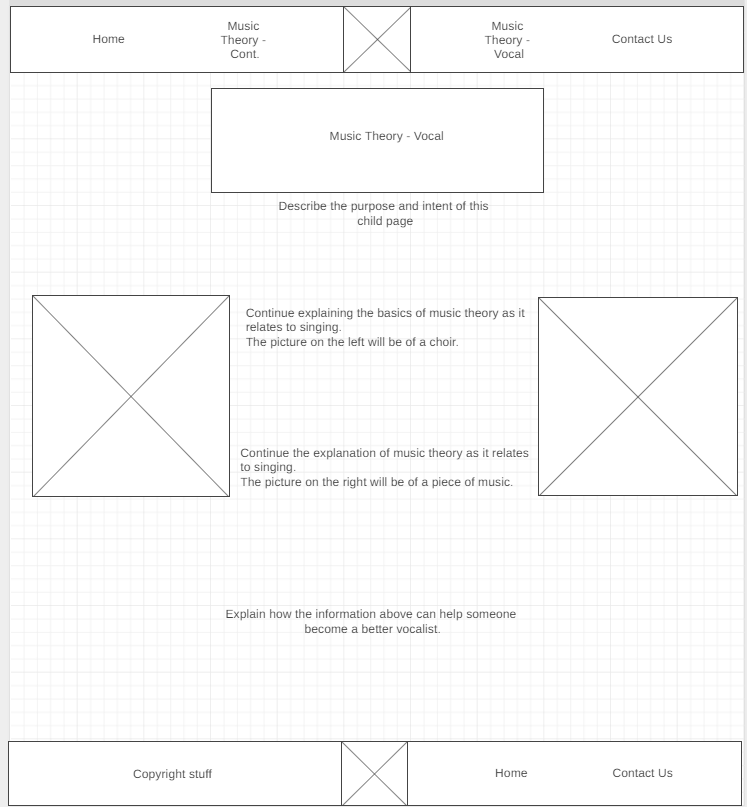
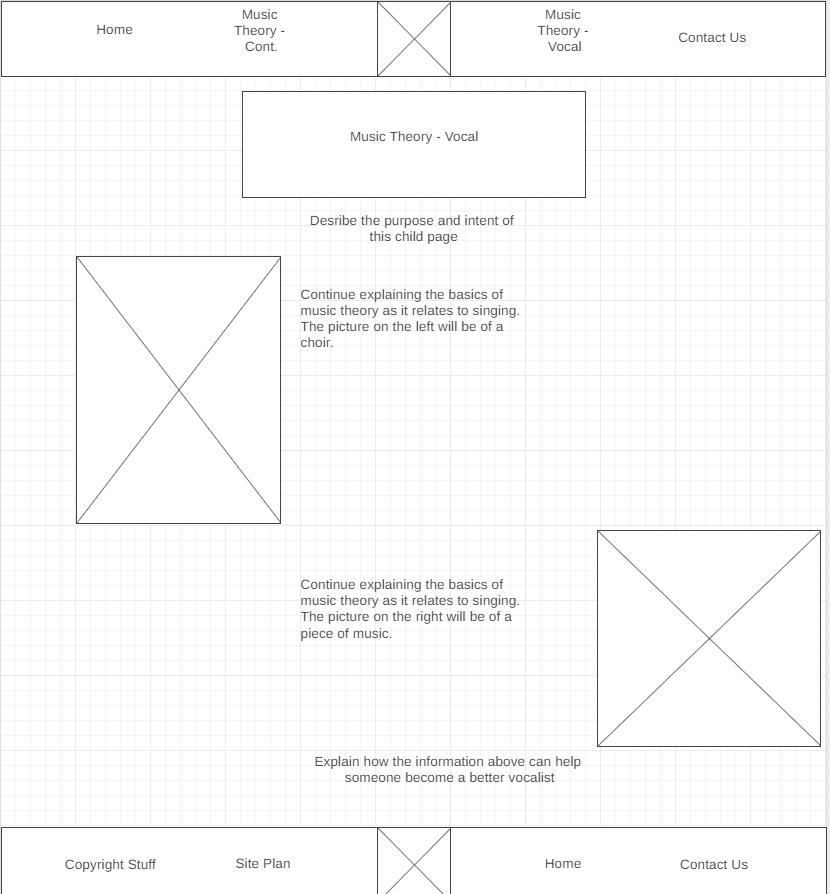
Added styling for second child page

diff --git a/musictheory/mtvocal.html b/musictheory/mtvocal.html
@@ -5,48 +5,69 @@
     <meta http-equiv="X-UA-Compatible" content="IE=edge">
     <meta name="viewport" content="width=device-width, initial-scale=1.0">
     <title>Music Theory | Vocal</title>
+    <link rel="stylesheet" href="styles/styles.css">
 </head>
 <body>
+    <button onclick="topFunction()" id="myBtn" title="Go to top">Top</button>
+    <script>
+        let mybutton = document.getElementById("myBtn");
+        window.onscroll = function() {scrollFucntion()};
+        function scrollFucntion() {
+            if (document.body.scrollTop > 20 || document.documentElement.scrollTop > 20) {
+                mybutton.style.display = "block";
+            } else {
+                mybutton.style.display = "none";
+            }    
+        }
+        function topFunction() {
+            document.body.scrollTop = 0;
+            document.documentElement.scrollTop = 0;
+        }
+    </script>
     <div id="content">
         <header>
-            <a id="logo_link" href="index.html">
-                <img class="logo" src="images/SMT Logo.png" alt="Simple Music Theory Logo">
-            </a>    
             <nav>
-                <a href="index.html">Home</a>
-                <a href="mtcont.html">Music Theory Continued</a>
-                <a href="mtvocal.html">Music Theory Vocal</a>
-                <a href="contactus.html">Contact us</a>   
+                <a class="link1" href="index.html">Home</a>
+                <a class="link2" href="mtcont.html">Music Theory Continued</a>
+                <img class="logo" src="images/SMT%20Logo.png" alt="Simple Music Theory Logo">
+                <a class="link3" href="mtvocal.html">Music Theory Vocal</a>
+                <a class="link4" href="contactus.html">Contact us</a>   
             </nav>
         </header>
         <section id="welcome-msg">
-            <h1 class="continued-title">Music Theory Continued</h1>
-            <h4>The information below will go further into music theory as it relates to singing.</h4>
+            <h1 class="vocal-title">Music Theory Continued</h1>
+            <h4>The information below will go further into music theory as it relates to singing</h4>
         </section>
-        <main class="mtvocal-info">
+        <main id="mtvocal-info">
                 <img class="choir" src="images/2960.jpg" alt="cartoon choir">
-                <h2>
-                    Whether at church or school, you've most likely heard a choir sing. What you may not know is that the members of the choir have different parts that they sing! The picture on the right shows what a choral piece of music might look like.
-                    If you look closely, you can see there are collections of four different notes stacked on top of each other in groups of two. Each of these four notes goes with a voice parts from top to bottom: soprano, alto, tenor, and bass. These are the four
-                    main voice types. Higher voices found in females sing either soprano or alto; conversely, males will sing tenor or bass. You may notice that two of the lines are in the treble clef and two are in the bass clef! The top line is the line which
-                    the sopranos sing, and the line below that is the alto line. Moving into the bass clef, we have the tenor line on top and the bass line on the bottom. 
-                </h2>
-                <h2>
-                    People have different voice types for a variety of reasons, the most obvious being gender. *Please note that people are not limited to voice type or part, they can sing whatever they want to.* Gender does not always determine voice type, however. 
-                    Men can sometimes sing comfortably quite high, and these are called countertenors. A countertenor would be able to sing an altos part with no trouble. Another voice type outside of the 'main four' is a baritone, another male voice type. 
-                    Baritones voices sit right between that of tenor and bass, meaning that they are not true basses or totally comfortable singing a tenors part, although they can sing notes withing both voice parts ranges. On the female side, a voice type outside of 
-                    alto and soprano is the coloratura soprano! Singers with this voice are able to sing extremely high, comfortably singing a high C and above. Many female singers are coloratura sopranos.
-                </h2>
-                <img class="music-book" src="images/pexels-cottonbro-studio-7095825.jpg" alt="choir music in book"
-            <section id="why-know-msg2">
-                <h4>Hopefully the information above has given you a better idea of the basics of music theory as it relates to vocalizing.</h4>
-            </section>
+                <div class="voc1">
+                    <h2>
+                        Whether at church or school, you've most likely heard a choir sing. What you may not know is that the members of the choir have different parts that they sing! The picture on the right shows what a choral piece of music might look like.
+                        If you look closely, you can see there are collections of four different notes stacked on top of each other in groups of two. Each of these four notes goes with a voice parts from top to bottom: soprano, alto, tenor, and bass. These are the four
+                        main voice types. Higher voices found in females sing either soprano or alto; conversely, males will sing tenor or bass. You may notice that two of the lines are in the treble clef and two are in the bass clef! The top line is the line which
+                        the sopranos sing, and the line below that is the alto line. Moving into the bass clef, we have the tenor line on top and the bass line on the bottom. 
+                    </h2>
+                </div>
+                <div class="voc2">
+                    <h2>
+                        People have different voice types for a variety of reasons, the most obvious being gender. *Please note that people are not limited to voice type or part, they can sing whatever they want to.* Gender does not always determine voice type, however. 
+                        Men can sometimes sing comfortably quite high, and these are called countertenors. A countertenor would be able to sing an altos part with no trouble. Another voice type outside of the 'main four' is a baritone, another male voice type. 
+                        Baritones voices sit right between that of tenor and bass, meaning that they are not true basses or totally comfortable singing a tenors part, although they can sing notes withing both voice parts ranges. On the female side, a voice type outside of 
+                        alto and soprano is the coloratura soprano! Singers with this voice are able to sing extremely high, comfortably singing a high C and above. Many female opera singers are coloratura sopranos.
+                    </h2>
+                </div>    
+                <img class="music-book" src="images/pexels-cottonbro-studio-7095825.jpg" alt="choir music in book">  
         </main>
-        <footer>
-            <p>Simple Music Theory &copy; 2022 - Ryan Donaldson</p>
-            <p><a href="site-plan.html">Site Plan</a></p>
-            <p><a href="index.html">Home</a></p>
-            <p><a href="contactus.html">Contact Us</a></p> 
-        </footer> 
+    </div>
+        <section id="why-know-msg2">
+                <h4>Hopefully the information above has given you a better idea of the basics of music theory as it relates to vocalizing</h4>
+        </section>
+    <footer>
+        <p class="cpyr">SMT &copy; 2022 - Ryan Donaldson</p>
+        <p><a class="splan" href="site-plan.html">Site Plan</a></p>
+        <img class="logo" src="images/SMT%20Logo.png" alt="Simple Music Theory Logo">
+        <p><a class="hlink" href="index.html">Home</a></p>
+        <p><a class="contactl" href="contactus.html">Contact Us</a></p> 
+    </footer> 
 </body>
 </html>

diff --git a/musictheory/styles/styles.css b/musictheory/styles/styles.css
@@ -176,7 +176,6 @@ footer .logo{
 /* Start CSS for child page Music Theory Continued */
 .continued-title{
     border: double 4px #FCCD12;
-    
 }
 
 #mtcont-info{
@@ -195,7 +194,6 @@ footer .logo{
     margin-bottom: 50px;
     border: solid 10px #C72C48;
     box-shadow: -1em -1em 5px #AAA9AD;
-    
 }
 
 .sharps-flats{
@@ -247,6 +245,77 @@ footer .logo{
     margin-bottom: -2px;
 }
 
+/* Start styling for mtvoal */
+.vocal-title{
+    border: double 4px #FCCD12;
+}
+
+#mtvocal-info{
+    display: grid;
+    grid-template-columns: 1fr 1fr 1fr;
+    grid-template-rows: 1fr 1fr;
+}
+
+.choir{
+    grid-column: 1/2;
+    grid-row: 1/2;
+    max-height: 800px;
+    padding: 20px;
+    margin: 0 auto;
+    margin-top: 50px;
+    margin-bottom: 50px;
+    border: solid 10px #C72C48;
+    box-shadow: -1em -1em 5px #AAA9AD;
+}
+
+.music-book{
+    grid-column: 3/4;
+    grid-row: 2/3;
+    max-height: 800px;
+    padding: 20px;
+    margin: 0 auto;
+    margin-top: 50px;
+    margin-bottom: 50px;
+    border: solid 10px #094D92;
+    box-shadow: 1em 1em 5px #AAA9AD;
+}
+
+.voc1{
+    grid-column: 2/3;
+    grid-row: 1/2;
+    margin: 0 auto;
+    text-align: center;
+    color: black;
+    padding: 25px 50px 100px 50px;
+    background-color: #FCCD12;
+    background-size: 90%;
+    box-shadow: 0 -5px 3px -3px black, 0 5px 3px -3px black;
+    line-height: 40px;
+}
+
+.voc2{
+    grid-column: 2/3;
+    grid-row: 2/3;
+    margin: 0 auto;
+    text-align: center;
+    color: black;
+    padding: 25px 50px 100px 50px;
+    background-color: #FCCD12;
+    box-shadow: 0 -5px 3px -3px black, 0 5px 3px -3px black;
+    line-height: 40px;
+}
+
+#why-know-msg2{
+    margin: auto;
+    text-align: center;
+    width: 700px;
+    font-size: large;
+    border-bottom: solid 4px #6f7364;
+}
+
+#why-know-msg2 h4{
+    margin-bottom: -2px;
+}
 
 /* Don't put anything past here!*/
 @media screen and (max-width: 900px) {
